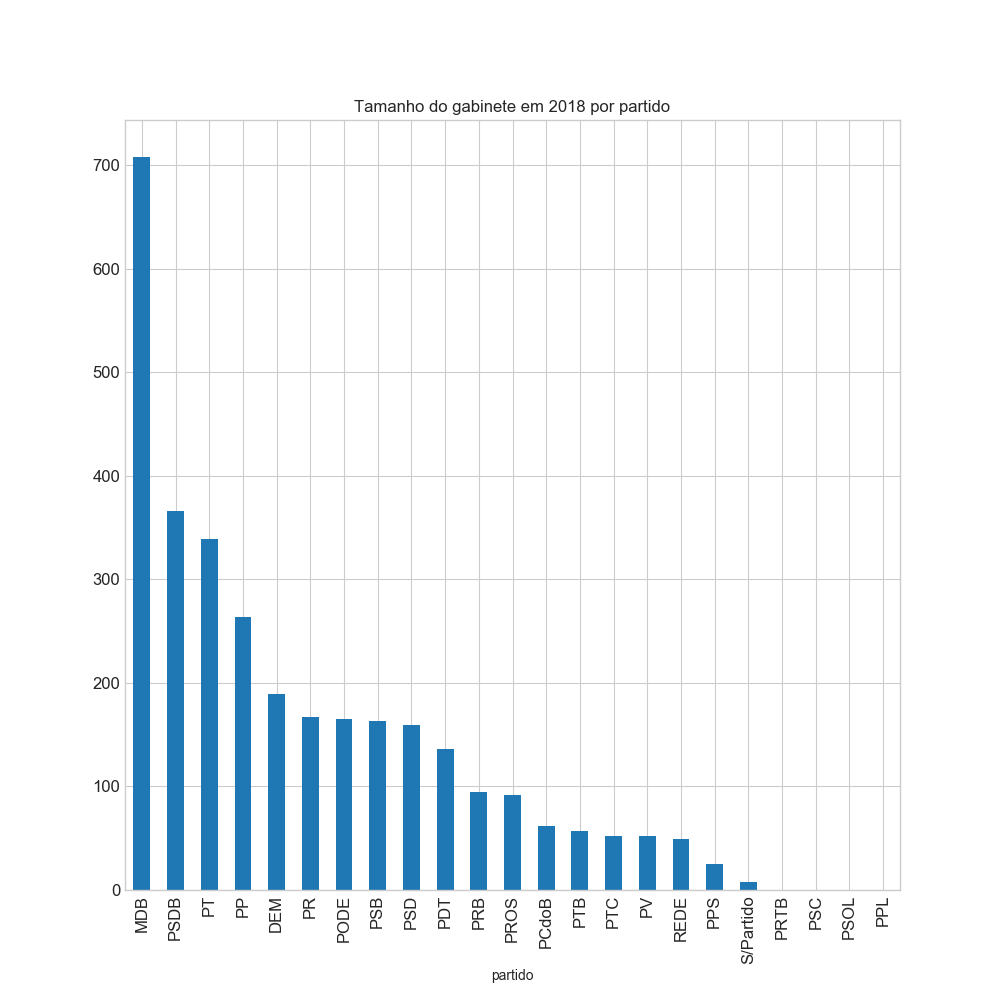
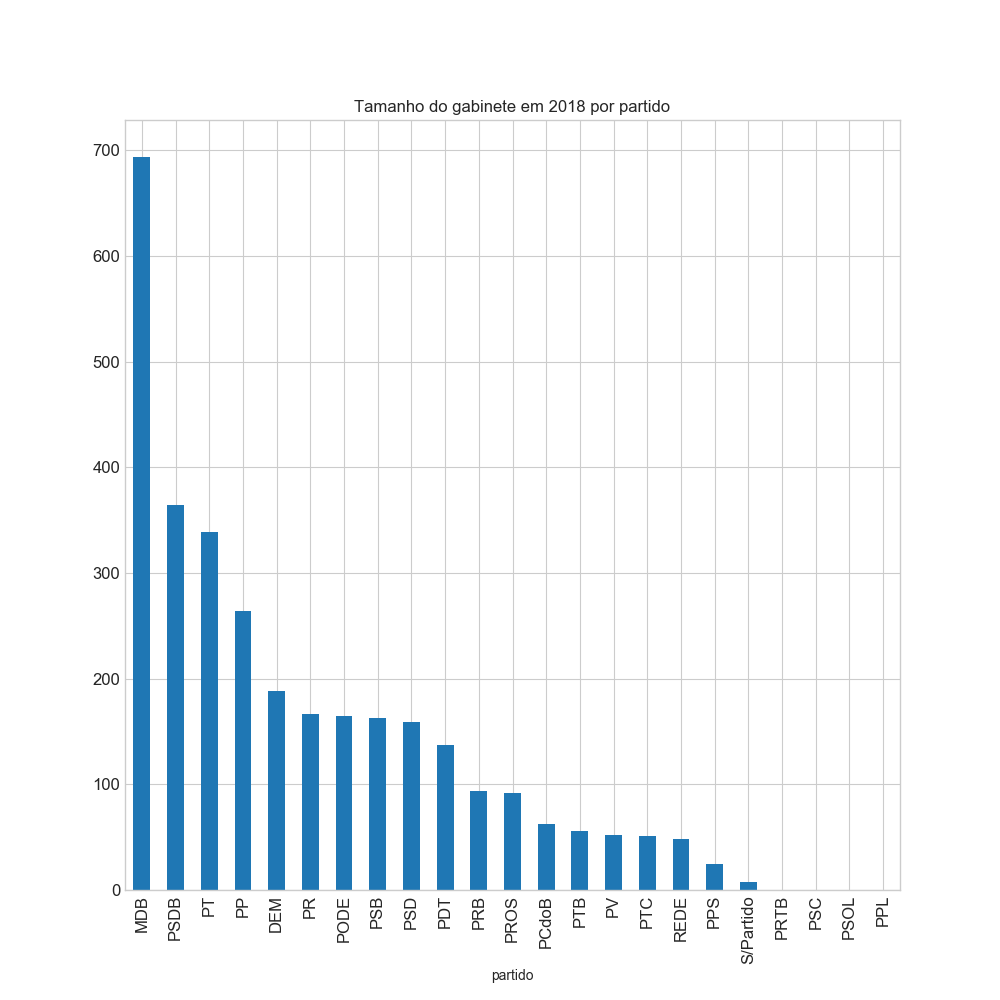
Atualização de dados do Senado (55)- auto

diff --git a/index.html b/index.html
@@ -31,7 +31,7 @@
 <!--Data-->       
 20/09/2018 às 
 <!--Hora-->
-00:12:28      </b><br></div>
+08:05:32      </b><br></div>
       <br>
       <div class="TextoImagem">
         <center>
@@ -372,7 +372,7 @@
               <td align='left'>Titular</td>
               <td align='middle'>AL</td>
               <td align='left'>PTC</td>
-              <td align='right'>52 pessoas</td>
+              <td align='right'>51 pessoas</td>
               <td align='right'>43 meses</td>
             </tr>
             <tr>
@@ -460,7 +460,7 @@
               <td align='left'>1º Suplente</td>
               <td align='middle'>GO</td>
               <td align='left'>PTB</td>
-              <td align='right'>25 pessoas</td>
+              <td align='right'>24 pessoas</td>
               <td align='right'>0 meses</td>
             </tr>
             <tr>
@@ -581,7 +581,7 @@
               <td align='left'>Titular</td>
               <td align='middle'>TO</td>
               <td align='left'>PDT</td>
-              <td align='right'>46 pessoas</td>
+              <td align='right'>47 pessoas</td>
               <td align='right'>28 meses</td>
             </tr>
             <tr>
@@ -647,7 +647,7 @@
               <td align='left'>Titular</td>
               <td align='middle'>SP</td>
               <td align='left'>MDB</td>
-              <td align='right'>41 pessoas</td>
+              <td align='right'>28 pessoas</td>
               <td align='right'>43 meses</td>
             </tr>
             <tr>
@@ -713,7 +713,7 @@
               <td align='left'>1º Suplente</td>
               <td align='middle'>MS</td>
               <td align='left'>PRB</td>
-              <td align='right'>33 pessoas</td>
+              <td align='right'>32 pessoas</td>
               <td align='right'>26 meses</td>
             </tr>
             <tr>
@@ -735,7 +735,7 @@
               <td align='left'>Titular</td>
               <td align='middle'>AP</td>
               <td align='left'>REDE</td>
-              <td align='right'>49 pessoas</td>
+              <td align='right'>48 pessoas</td>
               <td align='right'>43 meses</td>
             </tr>
             <tr>
@@ -790,7 +790,7 @@
               <td align='left'>Titular</td>
               <td align='middle'>ES</td>
               <td align='left'>PSDB</td>
-              <td align='right'>23 pessoas</td>
+              <td align='right'>21 pessoas</td>
               <td align='right'>38 meses</td>
             </tr>
             <tr>
@@ -845,7 +845,7 @@
               <td align='left'>Titular</td>
               <td align='middle'>RR</td>
               <td align='left'>MDB</td>
-              <td align='right'>58 pessoas</td>
+              <td align='right'>57 pessoas</td>
               <td align='right'>16 meses</td>
             </tr>
             <tr>
@@ -977,7 +977,7 @@
               <td align='left'>1º Suplente</td>
               <td align='middle'>GO</td>
               <td align='left'>DEM</td>
-              <td align='right'>23 pessoas</td>
+              <td align='right'>22 pessoas</td>
               <td align='right'>43 meses</td>
             </tr>
             <tr>
